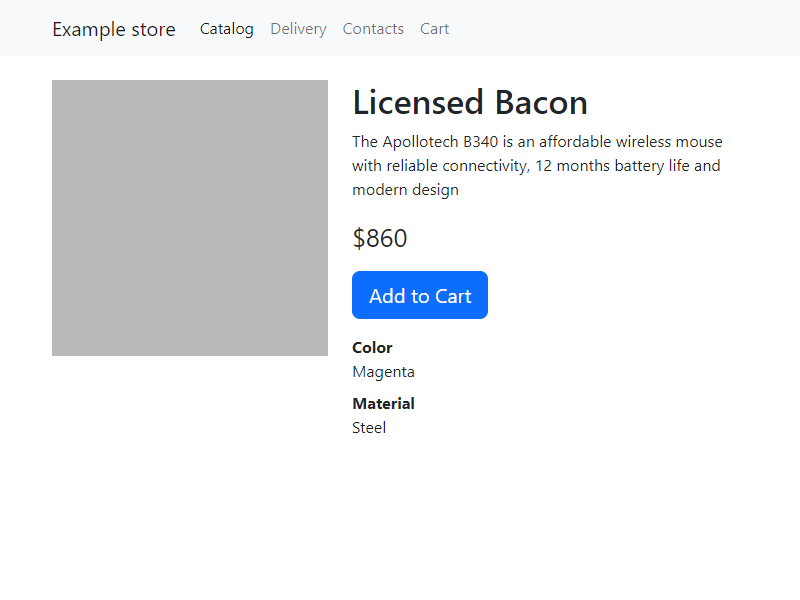
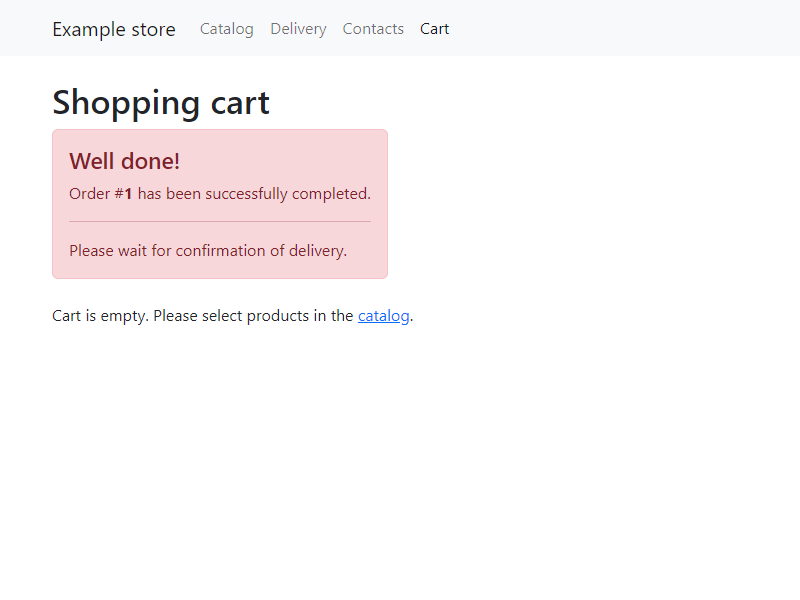
integr tests 2

diff --git a/test/hermione/pages.hermione.js b/test/hermione/pages.hermione.js
@@ -66,20 +66,26 @@ describe('Корзина: ', () => {
         const [page] = await puppeteer.pages();
         await page.goto('http://localhost:3000/hw/store/catalog/0', { timeout: 5000 });
 
-        document.querySelector('.ProductDetails-AddToCart').click(); // добавляем элемент в корзину
-        await page.goto('http://localhost:3000/hw/store/cart');
-        
-        document.querySelector('.Form-Field_type_name').focus(); // вводим корректные данные
+        await page.evaluate(async () => {
+            document.querySelector('.ProductDetails-AddToCart').click(); // добавляем элемент в корзину
+        });
+
+        await page.goto('http://localhost:3000/hw/store/cart?bug_id=8');
+
+        await page.evaluate(async () => {
+            document.querySelector('.Form-Field_type_name').focus(); // вводим корректные данные
+        })
         await page.keyboard.type('Darya');
-        
         await page.keyboard.press('Tab');
         await page.keyboard.type('88005553535');
-
+    
         await page.keyboard.press('Tab');
         await page.keyboard.type('hello');
 
-        document.querySelector('.Form-Submit').click(); // отправляем форму
-
+        await page.evaluate(async () => {
+            document.querySelector('.Form-Submit').click(); // отправляем форму
+        })
+        
         await browser.assertView('final card of order', '.Cart', { ignoreElements: [ // проверяем правильность плашки
             '.Cart-Number',
         ] });

diff --git a/hermione-html-reports/data.js b/hermione-html-reports/data.js
@@ -1,2 +1,2 @@
-var data = {"skips":[],"config":{"defaultView":"all","diffMode":"3-up","baseHost":"","errorPatterns":[],"metaInfoBaseUrls":{},"customScripts":[],"yandexMetrika":{"counterNumber":null},"pluginsEnabled":false,"plugins":[]},"apiValues":{"extraItems":{},"metaInfoExtenders":{},"imagesSaver":{"saveImg":"async (srcCurrPath, {destPath, reportDir}) => {\n        await utils.copyFileAsync(srcCurrPath, destPath, reportDir);\n\n        return destPath;\n    }"},"reportsSaver":null},"date":"Sun Jul 02 2023 23:24:56 GMT+0700 (GMT+07:00)"};
+var data = {"skips":[],"config":{"defaultView":"all","diffMode":"3-up","baseHost":"","errorPatterns":[],"metaInfoBaseUrls":{},"customScripts":[],"yandexMetrika":{"counterNumber":null},"pluginsEnabled":false,"plugins":[]},"apiValues":{"extraItems":{},"metaInfoExtenders":{},"imagesSaver":{"saveImg":"async (srcCurrPath, {destPath, reportDir}) => {\n        await utils.copyFileAsync(srcCurrPath, destPath, reportDir);\n\n        return destPath;\n    }"},"reportsSaver":null},"date":"Sun Jul 02 2023 23:45:50 GMT+0700 (GMT+07:00)"};
 try { module.exports = data; } catch(e) {}

diff --git a/test/hermione/general.hermione.js b/test/hermione/general.hermione.js
@@ -51,7 +51,7 @@ describe('Общие требования:', async function() {
         const puppeteer = await browser.getPuppeteer();
         const [page] = await puppeteer.pages();
         await page.goto('http://localhost:3000/hw/store/');
-        await page.waitForSelector(".navbar", { timeout: 5000});
+        await page.waitForSelector('.navbar', { timeout: 5000});
         const navbarBrandTitle = await page.evaluate(() => {
             const navbarBrand = document.querySelector('.navbar-brand');
             return navbarBrand.getAttribute('href');
